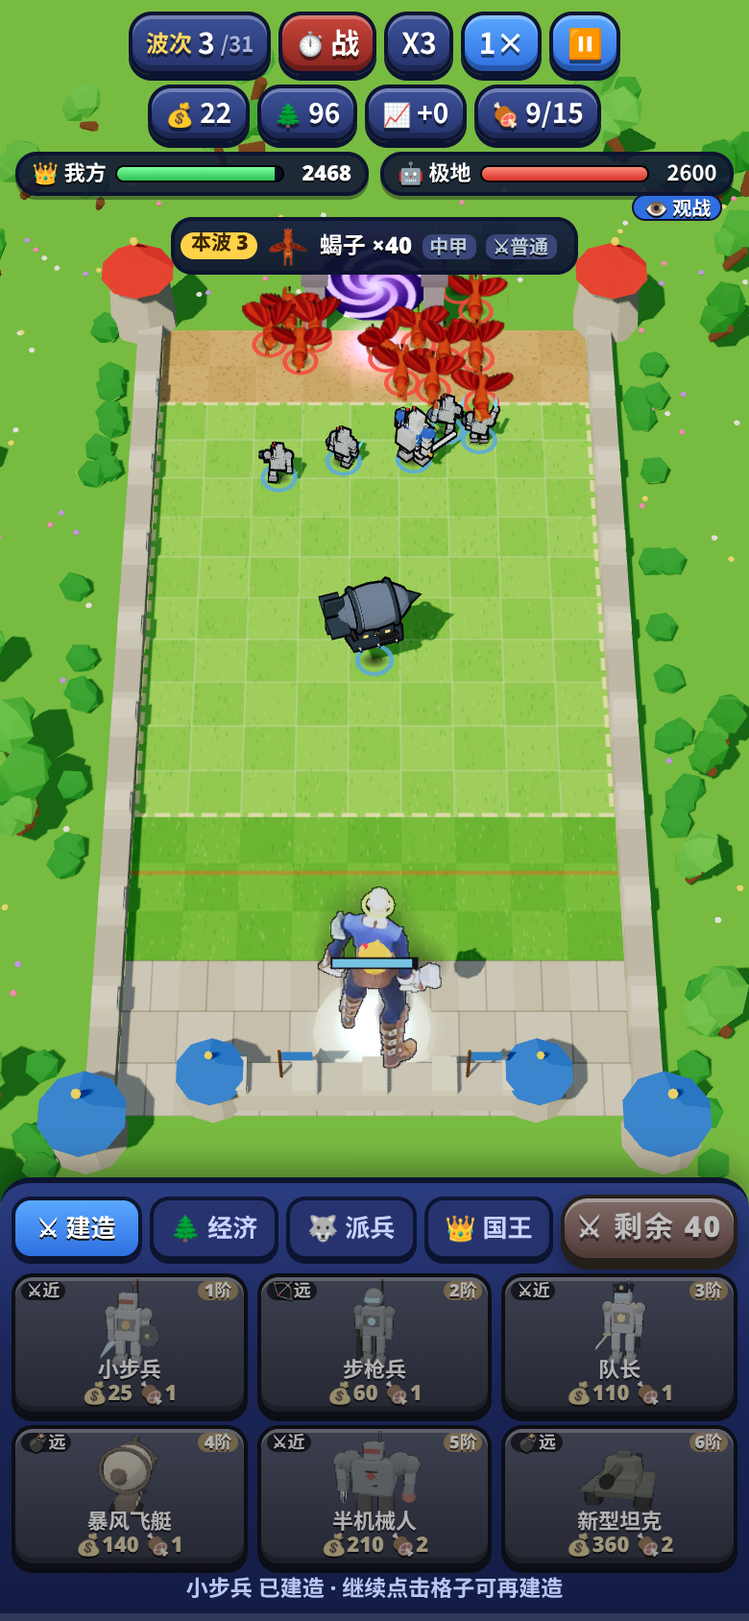
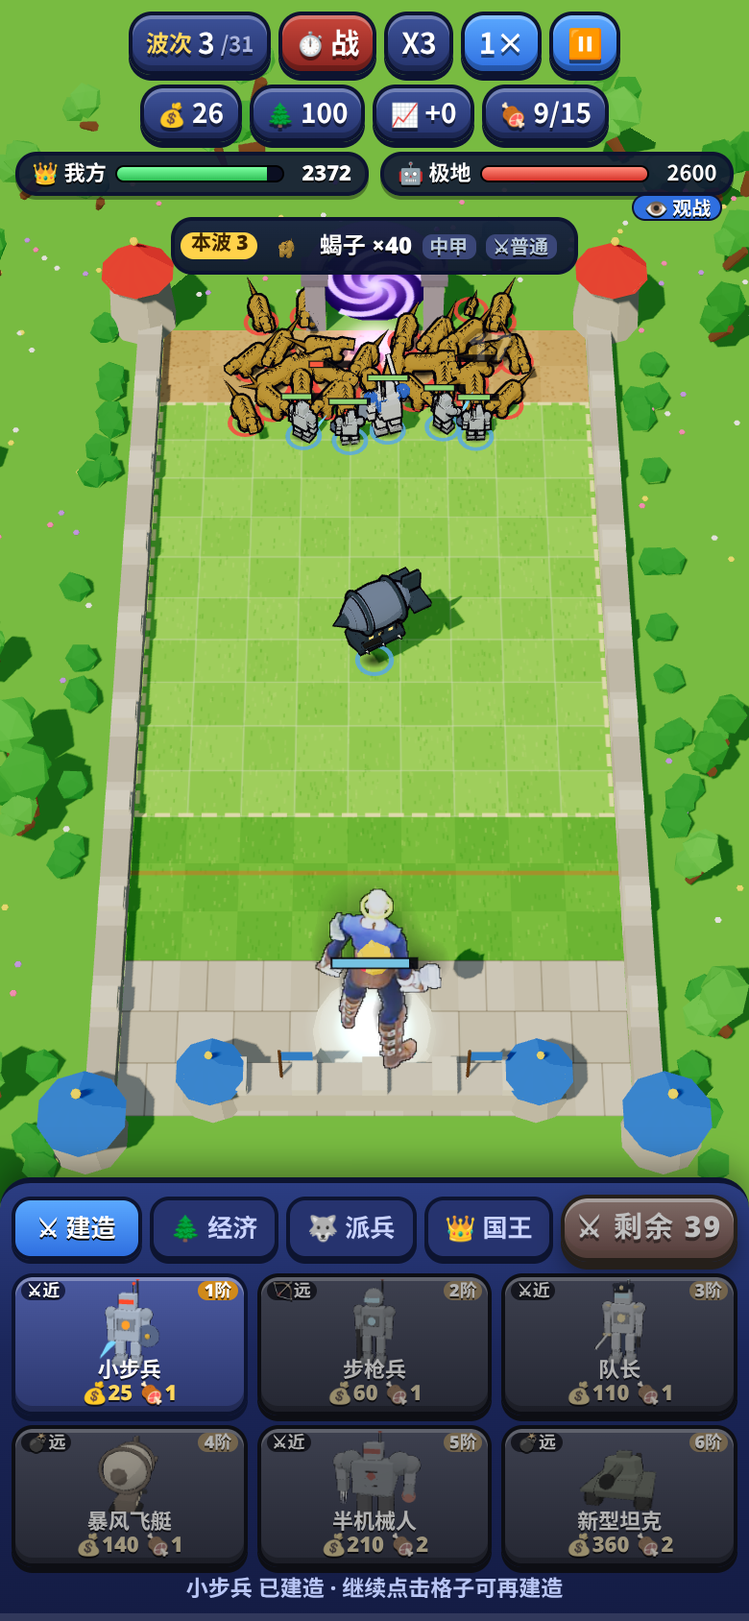
Model remake: wave creeps, skill summons and mercenaries on ToonKit; audit covers mercs; fewer shadow casters; perf_battle test

diff --git a/toonrecipes.js b/toonrecipes.js
@@ -173,3 +173,50 @@ R('h0CW',{k:0.98,h:1.0,torso:'default',head:'default',skin:0x8aa86a,hair:0x3a3a2
 R('h0CY',{k:1.12,h:1.15,bw:1.6,torso:'brute',head:'default',headS:0.85,skin:0xb8c8a8,torsoC:0xb8c8a8,legC:0x8a9a7a,sleeve:0xb8c8a8,handC:0x9aa88a,bootC:0x5a5a4a,eye:0xffe04a,weapon:'axe',wMetal:0x9a9aa0,off:'chain',atk:'swing',extras:['stitches','belly:0xc8d8b8','chains','spikes:0x6a6a6a']});
 R('h0D0',{k:1.12,h:1.18,bw:1.5,legs:'none',floatY:0.38,torso:'brute',head:'beast',headC:0x8a4a2a,helm:'horns',hornC:0x2a1a1a,skin:0x9a5a3a,torsoC:0x8a4a2a,lowC:0x6a3a2a,lowM:'n',sleeve:0x9a5a3a,handC:0x7a3a1a,eye:0x8aff4a,weapon:'trident',wMetal:0x5a5a5a,glow:0x8aff4a,pads:true,padC:0x2a2a2a,spikes:true,atk:'thrust',extras:['bwings:0x4a1a1a','tail:0x6a3a2a','aura:0x8aff4a']});
 R('h0D2',{k:1.12,plan:'flyer',skin:0xc8e0f0,skin2:0x8ab8d8,wingC:0x9ac8e8,wingM:'w',eye:0x6affff,crest:0xe8f8ff,neckLen:0.8,tailLen:0.6,wingSpan:1.15,alt:0.4,atk:'bite',extras:['spikes:0xe8f8ff','rings:0x9af0ff'],trail:0x9af0ff});
+// ===================== 召唤物 / 雇佣兵 / 波次怪：多数复用同类兵种配方（A=复制+覆盖），其余单独设计 =====================
+const A=(id,src,o)=>{TKR[id]={...TKR[src],...(o||{})};};
+// --- 召唤物 Summons ---
+R('n001',{k:0.8,plan:'quad',skin:0x3a5a2a,skin2:0x6a8a3a,headType:'wolf',eye:0x8aff4a,legLen:0.28,bodyLen:0.55,tailLen:0.3,claws:true,spikes:true,spikeC:0x8aff4a,atk:'bite'});
+A('n002','n001',{k:0.92,skin:0x5a3a7a,skin2:0x8a5ab0,eye:0xd06aff,spikeC:0xd06aff});
+A('u005','h0CS',{k:1.05,torsoC:0x6a1a1a,lowC:0x4a0a0a,eye:0xff4a2a,glow:0xff6a2a,accent:0xff6a2a,extras:['cape:0x4a0a0a','orbit:0xff6a2a','aura:0xff4a2a']});
+R('n00Q',{k:0.82,plan:'quad',skin:0x8a7a6a,skin2:0xb0a090,headType:'wolf',eye:0xffd02a,legLen:0.28,bodyLen:0.56,tailLen:0.32,tailW:1.4,claws:true,atk:'bite'});
+A('n00R','n00Q',{k:0.92,ghost:true,skin:0xc83a3a,skin2:0xff8a8a,eye:0xffe0a0,mane:true,maneC:0x8a1a1a});
+A('u011','h01R',{k:0.88});
+R('n004',{k:0.72,plan:'quad',skin:0x6a3a8a,skin2:0xb08ad8,headType:'lizard',eye:0xffe04a,legLen:0.22,bodyLen:0.45,tailLen:0.3,claws:true,spikes:true,spikeC:0xd8b0ff,atk:'bite'});
+A('h0AD','h0AE',{k:0.8});
+// --- 雇佣兵 Mercenaries ---
+A('h04O','h09H',{k:0.88});A('h04P','h09W',{k:0.88});A('h04R','h0CI',{k:0.9});A('h04S','h0BF',{k:0.95});
+R('h04Q',{k:0.72,plan:'flyer',skin:0x4a9a3a,skin2:0xd8e0a0,wingC:0x2a6a2a,eye:0xffe04a,neckLen:0.5,headS:1.2,tailLen:0.35,wingSpan:0.85,alt:0.4,atk:'bite'});
+A('h04T','h06O',{k:0.95});
+R('h04U',{k:0.95,plan:'quad',skin:0x4a8a8a,skin2:0xc8d8a0,headType:'lizard',eye:0xffe04a,legLen:0.3,bodyLen:0.7,bodyH:0.3,bw:1.15,tailLen:0.55,tailW:1.6,hump:true,spikes:true,spikeC:0x2a5a8a,claws:true,atk:'bite'});
+R('h04V',{k:1.15,plan:'quad',skin:0x8a7a6a,skin2:0xb0a088,headType:'boar',eye:0xffd02a,legLen:0.32,bodyLen:0.75,bodyH:0.38,bw:1.35,horns:true,hump:true,tailLen:0.12,saddle:0x8a2a2a,rider:0x6a4a2a,riderSkin:0x6a9a3a,riderHelm:0x8a8a8a,atk:'slam'});
+R('h04W',{k:1.0,h:1.0,bw:1.3,torso:'brute',head:'beast',headC:0x8a6a4a,skin:0x8a6a4a,torsoC:0x7a5a3a,legC:0x6a4a2a,sleeve:0x8a6a4a,handC:0x6a4a2a,bootC:0x4a3020,eye:0xffd02a,weapon:'hammer',wood:0x6a4a2a,wMetal:0x6a4a2a,atk:'slam',extras:['belly:0xb09070','bones']});
+A('h04X','h0C8',{k:1.0});A('h04Z','h0BS',{k:1.05});A('h050','h0BE',{k:0.95});A('h051','h0BH',{k:1.0});A('h052','h0BV',{k:1.0});A('h053','h0BG',{k:1.0});A('h056','h06P',{k:1.05});A('h057','h0CY',{k:1.15});
+R('h05M',{k:0.95,plan:'flyer',skin:0x7a7a84,skin2:0x9a9aa4,wingC:0x5a5a64,eye:0xff4a2a,neckLen:0.35,headS:1.2,tailLen:0.45,wingSpan:1.0,alt:0.45,atk:'claw',extras:['spikes:0x4a4a54']});
+A('h059','h07W',{k:1.05});
+R('h05B',{k:1.1,plan:'orb',glow:0x8a6aff,spikes:true,atk:'pulse',extras:['rings:0xb08aff']});
+A('h05A','h047',{k:1.15,torsoC:0x3a4a3a,legC:0x2a3a2a,armC:0x3a4a3a,headC:0x3a4a3a,eye:0x8aff4a,glow:0x8aff4a,extras:['chest:0x8aff4a','flamebody']});
+A('n003','h05A',{k:1.0});
+A('h0BR','h08Q',{k:1.2});
+// --- 波次怪 Wave creeps ---
+A('h000','h07L',{k:0.85});
+R('h005',{k:0.85,plan:'quad',skin:0xb08a3a,skin2:0xd8b060,headType:'lizard',eye:0x2a2a2a,legLen:0.18,bodyLen:0.6,bodyH:0.22,bw:1.3,tailLen:0.5,tailW:1.3,tailC:0x8a6a2a,claws:true,spikes:true,spikeC:0x6a4a1a,atk:'bite'});
+R('h001',{k:0.8,plan:'quad',skin:0x7a5a3a,skin2:0xa08060,headType:'boar',eye:0x2a2a2a,legLen:0.22,bodyLen:0.55,bodyH:0.3,bw:1.2,hump:true,spikes:true,spikeC:0xf0e8d8,tusks:true,tailLen:0.1,atk:'shoot'});
+R('h00I',{k:0.8,plan:'flyer',headType:'bird',skin:0x7a5a3a,skin2:0xe8e0d0,headC:0xf0f0f0,wing:'bird',wingC:0x6a4a2a,beak:0xf0c040,eye:0x2a2a2a,neckLen:0.35,headS:1.2,tailLen:0.25,wingSpan:1.0,alt:0.5,atk:'dive'});
+A('h003','h046',{k:0.92,torsoC:0x8a8a8a,legC:0x6a6a6a,armC:0x7a7a7a,headC:0x7a7a7a,eye:0xffd04a,glow:0xffd04a});
+R('h004',{k:0.98,h:1.0,torso:'default',head:'beast',headC:0x8a5a3a,helm:'horns',hornC:0x2a1a1a,skin:0x9a7ad8,torsoC:0x5a3a7a,legC:0x6a4a3a,legs:'hoof',eye:0xd06aff,weapon:'staff',wood:0x3a2a1a,glow:0xb06aff,atk:'cast',extras:['tail:0x6a4a3a','orbit:0xb06aff']});
+A('h007','h0CF');A('h008','h0CW');
+R('H05I',{k:1.3,h:1.2,bw:1.4,torso:'brute',head:'beast',headC:0x6a7ab8,helm:'crown',accent:0xffd04a,skin:0x6a7ab8,torsoC:0x4a3a7a,legC:0x3a2a5a,sleeve:0x6a7ab8,handC:0x5a6aa8,legs:'hoof',eye:0x8affff,weapon:'staff',wood:0xd8b860,glow:0xb08aff,pads:true,padC:0xd8b860,atk:'cast',extras:['tentacles:0x5a6aa8','tail:0x6a7ab8','aura:0xb08aff','orbit:0xb08aff']});
+A('h00B','h07S',{k:0.95});A('h00C','h07P',{k:1.0});A('h00D','h0BC',{k:1.05});
+R('h00E',{k:1.05,plan:'quad',skin:0x8a5a3a,skin2:0xa8785a,headType:'horse',eye:0x2a2a2a,legLen:0.36,bodyLen:0.64,tailLen:0.32,tailC:0x3a2a1a,mane:true,maneC:0x3a2a1a,rider:0xb8885a,riderSkin:0xc8986a,lance:0x8a8a8a,atk:'thrust'});
+R('h00F',{k:0.95,plan:'quad',skin:0xc8402a,skin2:0xf0a04a,headType:'lizard',eye:0xffe04a,legLen:0.24,bodyLen:0.68,bodyH:0.26,bw:1.15,tailLen:0.55,tailW:1.5,tailC:0xff7a2a,spikes:true,spikeC:0xffd04a,claws:true,atk:'shoot'});
+R('h00G',{k:1.1,h:1.1,bw:1.5,torso:'brute',head:'default',headS:0.8,skin:0xd8a0a0,torsoC:0xc89090,legC:0xa87070,sleeve:0xc89090,handC:0xa87070,bootC:0x5a3a3a,eye:0xffe04a,weapon:'glowfist',off:'glowfist',glow:0xff6a6a,atk:'slam',extras:['stitches','chains','bones']});
+R('h00H',{k:1.0,h:1.0,bw:1.4,torso:'rock',head:'rock',headC:0x5a8a3a,eye:0xffe04a,legs:'human',arms:'rock',torsoC:0x6a9a3a,legC:0x4a7a2a,armC:0x5a8a3a,bootC:0x3a5a2a,glow:0xb0ff4a,atk:'cast',extras:['chest:0xb0ff4a']});
+A('H05J','h07U',{k:1.4,skin:0x3a7a6a,skin2:0xd8c88a,headType:'lizard',hump:true,bodyH:0.32,spikeC:0xe8e0c8,eye:0xff4a2a});
+A('h03P','h08F',{k:0.9});
+R('h03Q',{k:1.15,plan:'quad',skin:0x6a4a2a,skin2:0x8a6a4a,headType:'boar',eye:0x2a2a2a,legLen:0.36,bodyLen:0.75,bodyH:0.38,bw:1.35,tusks:true,hump:true,mane:true,maneC:0x4a3020,tailLen:0.12,atk:'slam'});
+R('h03R',{k:1.1,h:1.05,bw:1.4,torso:'brute',head:'bird',headC:0x8a6a4a,skin:0x7a5a3a,torsoC:0x7a5a3a,legC:0x5a3a20,sleeve:0x7a5a3a,handC:0x5a3a20,legs:'digit',arms:'claw',eye:0xffd02a,helm:'horns',hornC:0xe8dcc0,atk:'claw',extras:['belly:0xc8a878','mane:0x6a4a2a']});
+A('h03T','h0CH',{k:1.05});A('h03U','h06Q',{k:1.0});A('h03S','h07V',{k:1.05});A('h03V','h022',{k:1.05});
+R('h03W',{k:0.95,plan:'tank',skin:0x3a4a3a,skin2:0x1a2a1a,barrels:1,spikes:true,eye:0x8aff4a,barrelC:0x2a3a2a,exhaust:true,atk:'recoil'});
+A('h006','h0D2',{k:1.0});A('H05K','h0BK',{k:1.4});
+A('h05L','h0D0',{k:1.35,skin:0x6a8a3a,torsoC:0x4a6a2a,lowC:0x3a5a2a,headC:0x5a7a2a,sleeve:0x6a8a3a,handC:0x4a6a2a,eye:0xff4a2a,glow:0xff4a2a,extras:['bwings:0x2a3a1a','tail:0x3a5a2a','aura:0x8aff4a','flamebody']});

diff --git a/test/perf_battle.js b/test/perf_battle.js
@@ -1,0 +1,13 @@
+// 战斗性能采样：PORT=8765 WAVE=1 node test/perf_battle.js → 可见网格数(≈draw calls)、三角形、单位数、fps(无GPU仅作相对比较)
+const {chromium}=require('/workspace/weapon-brawl-test/node_modules/playwright-core');
+const PORT=process.env.PORT||8765,WAVE=+process.env.WAVE||1;
+(async()=>{const b=await chromium.launch({executablePath:'/usr/bin/google-chrome',args:['--use-angle=swiftshader','--enable-unsafe-swiftshader','--ignore-gpu-blocklist']});
+ const p=await b.newPage({viewport:{width:390,height:844}});const errs=[];p.on('pageerror',e=>errs.push(e.message));
+ await p.goto(`http://127.0.0.1:${PORT}/index.html?debug&seed=11&mode=X3`);await p.waitForFunction(()=>window.__lt&&__lt.ready,null,{timeout:30000});
+ await p.tap('.rpick[data-r="Mech"]',{force:true}).catch(()=>p.click('.rpick[data-r="Mech"]',{force:true}));await p.waitForTimeout(500);await p.click('#startBtn',{force:true});await p.waitForTimeout(1000);
+ await p.evaluate(()=>{__lt.G.g.autoP0=true;});await p.click('#goBtn',{force:true});
+ for(let i=0;i<600;i++){const s=await p.evaluate(()=>[__lt.G.g.wave,__lt.G.g.phase]);if(s[0]>=WAVE&&s[1]==='battle')break;await p.evaluate(()=>{__lt.G.speed=4;const g=__lt.G.g;if(g.phase==='build'&&g.timer>8)g.timer=8;});await p.waitForTimeout(300);}
+ await p.evaluate(()=>{__lt.G.speed=1;});await p.waitForTimeout(2500);
+ const r=await p.evaluate(()=>new Promise(res=>{let f=0,mx=0,tri=0,un=0;const t0=performance.now();const step=()=>{f++;if(f%10===0){let m=0,t=0;__lt.scene.traverseVisible(o=>{if(o.isMesh||o.isSprite||o.isPoints){m++;const g=o.geometry;if(g&&o.isMesh)t+=(g.index?g.index.count:g.attributes.position.count)/3;}});if(m>mx){mx=m;tri=t;un=__lt.G.g.lanes.reduce((a,L)=>a+L.units.length,0);}}
+   if(performance.now()-t0<5000)requestAnimationFrame(step);else res({maxMeshes:mx,tris:Math.round(tri),units:un,fps:+(f/5).toFixed(1),heapMB:performance.memory?Math.round(performance.memory.usedJSHeapSize/1e6):null});};requestAnimationFrame(step);}));
+ console.log(JSON.stringify({wave:WAVE,...r,errs:errs.length}));await b.close();})();

diff --git a/toonkit.js b/toonkit.js
@@ -48,10 +48,12 @@ function compile(tb,ghost){const out=[];for(const name of tb.order){const P=tb.p
     else if(ghost&&geos.g){let g=geos.g.clone();g.deleteAttribute('normal');g.deleteAttribute('color');g=mergeVertices(g,1e-3);g.computeVertexNormals();ol=g;}
     out.push({name,parent:P.parent,pivot:P.pivot,geos,ol});}
   return {parts:out,meta:tb.meta};}
+// 只让主体部件投影：手臂/腿/武器等小部件不进阴影 pass，减少手机上的 draw call
+const SHADOW_PARTS=new Set(['root','body','hips','torso','head','wingL','wingR','tread','turret']);
 export function buildTK(id,recipe){let T=TPL.get(id);if(!T){const tb=new TB();const plan=PLANS[recipe.plan]||PLANS.humanoid;plan(tb,recipe);T=compile(tb,!!recipe.ghost);T.meta=Object.assign({atk:recipe.atk||'swing',plan:recipe.plan||'humanoid',ghost:!!recipe.ghost},tb.meta);TPL.set(id,T);}
   const nodes={};const root=new THREE.Group();
   for(const P of T.parts){const g=P.name==='root'?root:new THREE.Group();g.position.set(...P.pivot);nodes[P.name]=g;
-    for(const m in P.geos){const me=new THREE.Mesh(P.geos[m],mat(m));me.castShadow=(m==='n'||m==='w');me.renderOrder=m==='g'||m==='ge'?4:0;g.add(me);}
+    for(const m in P.geos){const me=new THREE.Mesh(P.geos[m],mat(m));me.castShadow=(m==='n'||m==='w')&&SHADOW_PARTS.has(P.name);me.renderOrder=m==='g'||m==='ge'?4:0;g.add(me);}
     if(P.ol){const o=new THREE.Mesh(P.ol,mat(recipe.ghost?'og':'o'));o.renderOrder=recipe.ghost?3:0;g.add(o);}
     if(P.parent)nodes[P.parent].add(g);}
   for(const P of T.parts)nodes[P.name].userData.rest=nodes[P.name].rotation.clone();

diff --git a/index.html b/index.html
@@ -10,9 +10,9 @@
 <link rel="manifest" href="manifest.webmanifest">
 <link rel="icon" type="image/png" href="icons/favicon-32.png">
 <link rel="apple-touch-icon" href="icons/apple-touch-icon.png">
-<link rel="stylesheet" href="style.css?v=15">
-<link rel="stylesheet" href="td.css?v=15">
-<link rel="stylesheet" href="lt.css?v=15">
+<link rel="stylesheet" href="style.css?v=16">
+<link rel="stylesheet" href="td.css?v=16">
+<link rel="stylesheet" href="lt.css?v=16">
 </head>
 <body class="td lt">
 <canvas id="cv"></canvas>
@@ -75,8 +75,8 @@
 </div>
 <div id="showTitle" class="hidden"></div>
 <script src="audio.js?v=1"></script>
-<script src="lt_core.js?v=15"></script>
+<script src="lt_core.js?v=16"></script>
 <script type="importmap">{"imports":{"three":"./lib/three.module.min.js","three/addons/":"./lib/addons/"}}</script>
-<script type="module" src="lt.js?v=15"></script>
+<script type="module" src="lt.js?v=16"></script>
 </body>
 </html>

diff --git a/lt.js b/lt.js
@@ -3,8 +3,8 @@ import * as THREE from 'three';
 import {SPR_UNITS,SPR_K,SPR_V} from './sprdata.js';
 import {MODELS,modelOf} from './models.js';
 import {ABZ as ABZ_} from './abil_zh.js';
-import {initTK,buildTK,animTK} from './toonkit.js?v=15';
-import {TKR} from './toonrecipes.js?v=15';
+import {initTK,buildTK,animTK} from './toonkit.js?v=16';
+import {TKR} from './toonrecipes.js?v=16';
 const LT=window.LT,S=SFX.S,$=id=>document.getElementById(id);
 const Q=location.search;const DEBUG=/[?&]debug/.test(Q);const SHOWCASE=(Q.match(/[?&]showcase=([^&]+)/)||[])[1];
 const W=LT.W,H=LT.H,W2=W/2,H2=H/2;const B=LT.BUILD;

diff --git a/data/model_audit.md b/data/model_audit.md
@@ -1,6 +1,6 @@
 # 模型审核 · Model audit (Legion TD Mega 3.41)
 
-生成：`node tools/gen_audit.mjs`。共 187 个建造兵种 + 11 个召唤物 + 31 波怪。
+生成：`node tools/gen_audit.mjs`。共 187 个建造兵种 + 11 个技能召唤物 + 24 个雇佣兵（派兵）+ 31 波怪。
 
 “旧资源”= models.js 中复用的英雄冲突 HoMM3 精灵（着色）或旧程序化模型；“WC3 模型”= 原图模型文件。严重度：❌ 轮廓/物种完全不对；⚠ 物种接近但关键特征缺失（坐骑、翅膀、多头、幽灵感等）；✅ 基本相符。
 
@@ -171,12 +171,12 @@
 | h01Q | Skeletor 骷髅勇士 | SkeletonOrc | 精灵 skeleton | ✅ 基本相符 | **已重做**：ToonKit 程序化卡通模型（humanoid） |
 | h01R | Fire Archer 火焰弓箭手 | SkeletonArcher | 精灵 skeleton | ✅ 基本相符 | **已重做**：ToonKit 程序化卡通模型（humanoid） |
 | h01S | Dark Mage 骷髅黑法师 | SkeletonMage | 精灵 lich | ⚠ 部分不符 | **已重做**：ToonKit 程序化卡通模型（humanoid） |
-| h01T | Carrion Spitter 腐尸吐吐虫 | CryptFiend | 程序化 spider | ✅ 基本相符 | 保留，后续统一换 ToonKit 时顺带做 |
-| h01U | Nightcrawler 夜行蛛 | NerubianSpiderLord | 程序化 spider | ✅ 基本相符 | 保留，后续统一换 ToonKit 时顺带做 |
+| h01T | Carrion Spitter 腐尸吐吐虫 | CryptFiend | 程序化 spider | ✅ 基本相符 | 保留：旧资源已与 WC3 模型相符（程序化 spider） |
+| h01U | Nightcrawler 夜行蛛 | NerubianSpiderLord | 程序化 spider | ✅ 基本相符 | 保留：旧资源已与 WC3 模型相符（程序化 spider） |
 | h01V | Gateguard 守门恶魔 | Felgaurd | 精灵 pitFiend | ✅ 基本相符 | **已重做**：ToonKit 程序化卡通模型（humanoid） |
 | h01W | Harbinger 先驱者 | FelgaurdBlue | 精灵 pitFiend | ✅ 基本相符 | **已重做**：ToonKit 程序化卡通模型（humanoid） |
-| h01X | Overseer 监视者 | ObsidianStatue | 程序化 statue | ✅ 基本相符 | 保留，后续统一换 ToonKit 时顺带做 |
-| h01Y | Keeper of Souls 灵魂守护者 | ObsidianStatue | 程序化 statue | ✅ 基本相符 | 保留，后续统一换 ToonKit 时顺带做 |
+| h01X | Overseer 监视者 | ObsidianStatue | 程序化 statue | ✅ 基本相符 | 保留：旧资源已与 WC3 模型相符（程序化 statue） |
+| h01Y | Keeper of Souls 灵魂守护者 | ObsidianStatue | 程序化 statue | ✅ 基本相符 | 保留：旧资源已与 WC3 模型相符（程序化 statue） |
 | h01Z | Nightmare 梦魇 | FacelessOne | 精灵 beholder | ❌ 严重不符 | **已重做**：ToonKit 程序化卡通模型（humanoid） |
 | h020 | Doppelganger 幻影分身 | FacelessOne | 精灵 beholder | ❌ 严重不符 | **已重做**：ToonKit 程序化卡通模型（humanoid） |
 | h021 | Lord of Death 死亡领主 | EredarWarlock | 精灵 efreet | ⚠ 部分不符 | **已重做**：ToonKit 程序化卡通模型（humanoid） |
@@ -190,16 +190,16 @@
 | h07L | Swamprunner 沼泽奔行者 | MurlocMutant | 精灵 lizardman | ⚠ 部分不符 | **已重做**：ToonKit 程序化卡通模型（humanoid） |
 | h07N | Fangtooth 尖牙鱼人 | MurgulReaver | 精灵 lizardman | ⚠ 部分不符 | **已重做**：ToonKit 程序化卡通模型（humanoid） |
 | h07M | Defiler 毒牙鱼人 | MurgulBloodGill | 精灵 lizardman | ⚠ 部分不符 | **已重做**：ToonKit 程序化卡通模型（humanoid） |
-| h07O | Egg Sack 蛋壳 | EggSack1 | 程序化 egg | ✅ 基本相符 | 保留，后续统一换 ToonKit 时顺带做 |
+| h07O | Egg Sack 蛋壳 | EggSack1 | 程序化 egg | ✅ 基本相符 | 保留：旧资源已与 WC3 模型相符（程序化 egg） |
 | h07P | Sky Dragon 飞蛇 | WindSerpent | 精灵 serpentFly | ✅ 基本相符 | **已重做**：ToonKit 程序化卡通模型（flyer） |
-| h07Q | Bottom Feeder 鳌虾 | Lobstrokkred | 程序化 crab | ✅ 基本相符 | 保留，后续统一换 ToonKit 时顺带做 |
-| h07R | King Claw 蟹王 | Lobstrokkgreen | 程序化 crab | ✅ 基本相符 | 保留，后续统一换 ToonKit 时顺带做 |
+| h07Q | Bottom Feeder 鳌虾 | Lobstrokkred | 程序化 crab | ✅ 基本相符 | 保留：旧资源已与 WC3 模型相符（程序化 crab） |
+| h07R | King Claw 蟹王 | Lobstrokkgreen | 程序化 crab | ✅ 基本相符 | 保留：旧资源已与 WC3 模型相符（程序化 crab） |
 | h07S | Mermaid 美人鱼 | NagaSiren | 精灵 naga | ✅ 基本相符 | **已重做**：ToonKit 程序化卡通模型（humanoid） |
 | h07T | Highborne 上层精灵 | NagaSummoner | 精灵 naga | ✅ 基本相符 | **已重做**：ToonKit 程序化卡通模型（humanoid） |
 | h07U | Komodo 巨蜥 | SnapDragon | 精灵 basilisk | ⚠ 部分不符 | **已重做**：ToonKit 程序化卡通模型（quad） |
 | h07V | Trident 三叉戟 | NagaMyrmidon | 精灵 naga | ✅ 基本相符 | **已重做**：ToonKit 程序化卡通模型（humanoid） |
 | h07W | Sea Giant 海巨人 | SeaGiantGreen | 精灵 giant | ⚠ 部分不符 | **已重做**：ToonKit 程序化卡通模型（humanoid） |
-| h07X | Hydra 九头蛇 | Hydra | 精灵 hydra | ✅ 基本相符 | 保留，后续统一换 ToonKit 时顺带做 |
+| h07X | Hydra 九头蛇 | Hydra | 精灵 hydra | ✅ 基本相符 | 保留：旧资源已与 WC3 模型相符（精灵 hydra） |
 
 ## Beast 野兽
 
@@ -222,19 +222,19 @@
 
 | id | 兵种 | WC3 模型 | 旧资源 | 旧资源符合度 | 处理 |
 |---|---|---|---|---|---|
-| h01C | Ent 树人 | Ent | 程序化 tree | ✅ 基本相符 | 保留，后续统一换 ToonKit 时顺带做 |
-| h01D | Guardian 守护古树 | AncientProtector | 程序化 ancient | ✅ 基本相符 | 保留，后续统一换 ToonKit 时顺带做 |
+| h01C | Ent 树人 | Ent | 程序化 tree | ✅ 基本相符 | 保留：旧资源已与 WC3 模型相符（程序化 tree） |
+| h01D | Guardian 守护古树 | AncientProtector | 程序化 ancient | ✅ 基本相符 | 保留：旧资源已与 WC3 模型相符（程序化 ancient） |
 | h01E | Ranger 游侠 | Archer | 精灵 woodElf | ✅ 基本相符 | **已重做**：ToonKit 程序化卡通模型（humanoid） |
 | h01F | Meliai 树精 | Dryad | 精灵 woodElf | ⚠ 部分不符 | **已重做**：ToonKit 程序化卡通模型（humanoid） |
 | h01H | Sprite 精灵龙 | FaerieDragon | 精灵 serpentFly | ⚠ 部分不符 | **已重做**：ToonKit 程序化卡通模型（flyer） |
 | h01G | Thunderbird 雷鸟 | Chimaera | 精灵 griffin | ❌ 严重不符 | **已重做**：ToonKit 程序化卡通模型（flyer） |
-| h01I | Tree of Travel 旅行之树 | AncientOfLore | 程序化 ancient | ✅ 基本相符 | 保留，后续统一换 ToonKit 时顺带做 |
-| h01J | Tree of Time 时间之树 | AncientOfWonder | 程序化 ancient | ✅ 基本相符 | 保留，后续统一换 ToonKit 时顺带做 |
+| h01I | Tree of Travel 旅行之树 | AncientOfLore | 程序化 ancient | ✅ 基本相符 | 保留：旧资源已与 WC3 模型相符（程序化 ancient） |
+| h01J | Tree of Time 时间之树 | AncientOfWonder | 程序化 ancient | ✅ 基本相符 | 保留：旧资源已与 WC3 模型相符（程序化 ancient） |
 | h01K | Halfbreed 混血熊人 | DruidoftheClaw | 精灵 behemoth | ✅ 基本相符 | **已重做**：ToonKit 程序化卡通模型（quad） |
 | h01L | Goliath 山岭巨人 | MountainGiant | 精灵 giant | ✅ 基本相符 | **已重做**：ToonKit 程序化卡通模型（humanoid） |
-| h01M | Yggdrasil 世界树 | TreeofLife | 程序化 tree | ✅ 基本相符 | 保留，后续统一换 ToonKit 时顺带做 |
-| h01N | Tree of Life 生命之树 | TreeofLife | 程序化 tree | ✅ 基本相符 | 保留，后续统一换 ToonKit 时顺带做 |
-| h01O | Tree of Knowledge 智慧之树 | CorruptedTreeofLife | 程序化 tree | ✅ 基本相符 | 保留，后续统一换 ToonKit 时顺带做 |
+| h01M | Yggdrasil 世界树 | TreeofLife | 程序化 tree | ✅ 基本相符 | 保留：旧资源已与 WC3 模型相符（程序化 tree） |
+| h01N | Tree of Life 生命之树 | TreeofLife | 程序化 tree | ✅ 基本相符 | 保留：旧资源已与 WC3 模型相符（程序化 tree） |
+| h01O | Tree of Knowledge 智慧之树 | CorruptedTreeofLife | 程序化 tree | ✅ 基本相符 | 保留：旧资源已与 WC3 模型相符（程序化 tree） |
 
 ## Undead 亡灵
 
@@ -244,8 +244,8 @@
 | h0CH | Revenant 亡魂 | RevenantOfTheWaves | 精灵 wight | ⚠ 部分不符 | **已重做**：ToonKit 程序化卡通模型（humanoid） |
 | h0CI | Ghoul 食尸鬼 | Ghoul | 精灵 walkingDead | ✅ 基本相符 | **已重做**：ToonKit 程序化卡通模型（humanoid） |
 | h0CK | Frenzy Ghoul 狂暴食尸鬼 | Ghoul | 精灵 walkingDead | ✅ 基本相符 | **已重做**：ToonKit 程序化卡通模型（humanoid） |
-| h0CO | Meat Wagon 绞肉车 | MeatWagon | 程序化 wagon | ✅ 基本相符 | 保留，后续统一换 ToonKit 时顺带做 |
-| h0CP | War Machine 战争机器 | InfernalCannonCannon | 程序化 wagon | ✅ 基本相符 | 保留，后续统一换 ToonKit 时顺带做 |
+| h0CO | Meat Wagon 绞肉车 | MeatWagon | 程序化 wagon | ✅ 基本相符 | 保留：旧资源已与 WC3 模型相符（程序化 wagon） |
+| h0CP | War Machine 战争机器 | InfernalCannonCannon | 程序化 wagon | ✅ 基本相符 | 保留：旧资源已与 WC3 模型相符（程序化 wagon） |
 | h0CQ | Necromancer 死灵法师 | Necromancer | 精灵 lich | ✅ 基本相符 | **已重做**：ToonKit 程序化卡通模型（humanoid） |
 | h0CS | Necrolyte 克尔苏加德 | Kelthuzad | 精灵 lich | ✅ 基本相符 | **已重做**：ToonKit 程序化卡通模型（humanoid） |
 | h0CV | Ghost 幽灵巫妖 | KelThuzadGhost | 精灵 lich | ⚠ 部分不符 | **已重做**：ToonKit 程序化卡通模型（humanoid） |
@@ -275,79 +275,108 @@
 
 | id | 兵种 | WC3 模型 | 旧资源 | 旧资源符合度 | 处理 |
 |---|---|---|---|---|---|
-| h0A8 | Small Land Mine 小型地雷 | GoblinLandMine | 程序化 mine | ✅ 基本相符 | 保留，后续统一换 ToonKit 时顺带做 |
-| h0AT | Medium Land Mine 中型地雷 | GoblinLandMine | 程序化 mine | ✅ 基本相符 | 保留，后续统一换 ToonKit 时顺带做 |
-| h0AU | Ultra Land Mine 超级地雷 | GoblinLandMine | 程序化 mine | ✅ 基本相符 | 保留，后续统一换 ToonKit 时顺带做 |
-| h0AB | Machine Turret 机枪塔 | GoblinMobileTurret | 程序化 turret | ✅ 基本相符 | 保留，后续统一换 ToonKit 时顺带做 |
-| h0AA | Machine Robot 机器人 | GoblinDrillbot3000_A_005 | 程序化 robot | ✅ 基本相符 | 保留，后续统一换 ToonKit 时顺带做 |
+| h0A8 | Small Land Mine 小型地雷 | GoblinLandMine | 程序化 mine | ✅ 基本相符 | 保留：旧资源已与 WC3 模型相符（程序化 mine） |
+| h0AT | Medium Land Mine 中型地雷 | GoblinLandMine | 程序化 mine | ✅ 基本相符 | 保留：旧资源已与 WC3 模型相符（程序化 mine） |
+| h0AU | Ultra Land Mine 超级地雷 | GoblinLandMine | 程序化 mine | ✅ 基本相符 | 保留：旧资源已与 WC3 模型相符（程序化 mine） |
+| h0AB | Machine Turret 机枪塔 | GoblinMobileTurret | 程序化 turret | ✅ 基本相符 | 保留：旧资源已与 WC3 模型相符（程序化 turret） |
+| h0AA | Machine Robot 机器人 | GoblinDrillbot3000_A_005 | 程序化 robot | ✅ 基本相符 | 保留：旧资源已与 WC3 模型相符（程序化 robot） |
 | h0AE | Geomancer 狗头人地卜师 | KoboldGeomancer | 精灵 gremlin | ⚠ 部分不符 | **已重做**：ToonKit 程序化卡通模型（humanoid） |
-| h0AF | Clockwreck 发条机器人 | HeroTinkerRobot | 程序化 robot | ✅ 基本相符 | 保留，后续统一换 ToonKit 时顺带做 |
-| h0AH | Flying Machine 飞行器 | Gyrocopter_V1 | 程序化 gyro | ✅ 基本相符 | 保留，后续统一换 ToonKit 时顺带做 |
-| h0AJ | Helicopter 直升机 | Minicopter | 程序化 copter | ✅ 基本相符 | 保留，后续统一换 ToonKit 时顺带做 |
+| h0AF | Clockwreck 发条机器人 | HeroTinkerRobot | 程序化 robot | ✅ 基本相符 | 保留：旧资源已与 WC3 模型相符（程序化 robot） |
+| h0AH | Flying Machine 飞行器 | Gyrocopter_V1 | 程序化 gyro | ✅ 基本相符 | 保留：旧资源已与 WC3 模型相符（程序化 gyro） |
+| h0AJ | Helicopter 直升机 | Minicopter | 程序化 copter | ✅ 基本相符 | 保留：旧资源已与 WC3 模型相符（程序化 copter） |
 | h0AL | Goblin Alchemist 地精炼金术士 | HeroGoblinAlchemist | 精灵 goblin | ⚠ 部分不符 | **已重做**：ToonKit 程序化卡通模型（humanoid） |
 | h0AO | Goblin Blaster 地精爆破手 | IronGolem | 精灵 stoneGolem | ✅ 基本相符 | **已重做**：ToonKit 程序化卡通模型（humanoid） |
-| h0AR | Steamroller 蒸汽压路机 | GoblinSteamRoller | 程序化 roller | ✅ 基本相符 | 保留，后续统一换 ToonKit 时顺带做 |
-| h0AQ | Assault Tank 突击坦克 | GoblinAssaultTank | 程序化 tank | ✅ 基本相符 | 保留，后续统一换 ToonKit 时顺带做 |
+| h0AR | Steamroller 蒸汽压路机 | GoblinSteamRoller | 程序化 roller | ✅ 基本相符 | 保留：旧资源已与 WC3 模型相符（程序化 roller） |
+| h0AQ | Assault Tank 突击坦克 | GoblinAssaultTank | 程序化 tank | ✅ 基本相符 | 保留：旧资源已与 WC3 模型相符（程序化 tank） |
 
 ## Hybrid 混血
 
 | id | 兵种 | WC3 模型 | 旧资源 | 旧资源符合度 | 处理 |
 |---|---|---|---|---|---|
-| h07D | Morph [Tier 1] 变形体·一阶 | QuestionMark | 程序化 morph | ✅ 基本相符 | 保留，后续统一换 ToonKit 时顺带做 |
-| h07E | Morph [Tier 2] 变形体·二阶 | QuestionMark | 程序化 morph | ✅ 基本相符 | 保留，后续统一换 ToonKit 时顺带做 |
-| h07G | Morph [Tier 3] 变形体·三阶 | QuestionMark | 程序化 morph | ✅ 基本相符 | 保留，后续统一换 ToonKit 时顺带做 |
-| h07F | Morph [Tier 4] 变形体·四阶 | QuestionMark | 程序化 morph | ✅ 基本相符 | 保留，后续统一换 ToonKit 时顺带做 |
-| h07H | Morph [Tier 5] 变形体·五阶 | QuestionMark | 程序化 morph | ✅ 基本相符 | 保留，后续统一换 ToonKit 时顺带做 |
-| h07I | Morph [Tier 6] 变形体·六阶 | QuestionMark | 程序化 morph | ✅ 基本相符 | 保留，后续统一换 ToonKit 时顺带做 |
+| h07D | Morph [Tier 1] 变形体·一阶 | QuestionMark | 程序化 morph | ✅ 基本相符 | 保留：旧资源已与 WC3 模型相符（程序化 morph） |
+| h07E | Morph [Tier 2] 变形体·二阶 | QuestionMark | 程序化 morph | ✅ 基本相符 | 保留：旧资源已与 WC3 模型相符（程序化 morph） |
+| h07G | Morph [Tier 3] 变形体·三阶 | QuestionMark | 程序化 morph | ✅ 基本相符 | 保留：旧资源已与 WC3 模型相符（程序化 morph） |
+| h07F | Morph [Tier 4] 变形体·四阶 | QuestionMark | 程序化 morph | ✅ 基本相符 | 保留：旧资源已与 WC3 模型相符（程序化 morph） |
+| h07H | Morph [Tier 5] 变形体·五阶 | QuestionMark | 程序化 morph | ✅ 基本相符 | 保留：旧资源已与 WC3 模型相符（程序化 morph） |
+| h07I | Morph [Tier 6] 变形体·六阶 | QuestionMark | 程序化 morph | ✅ 基本相符 | 保留：旧资源已与 WC3 模型相符（程序化 morph） |
 
 ## 召唤物 Summons
 
 | id | 兵种 | WC3 模型 | 旧资源 | 旧资源符合度 | 处理 |
 |---|---|---|---|---|---|
-| n001 | undefined 恶魔仆从 | felhound | 精灵 hellHound | ✅ 基本相符 | 保留，后续统一换 ToonKit 时顺带做 |
-| n002 | undefined 狂热者 | FelstalkerPurple | 精灵 hellHound | ✅ 基本相符 | 保留，后续统一换 ToonKit 时顺带做 |
-| n003 | undefined 地狱火 | Infernal | 精灵 stoneGolem | ⚠ 部分不符 | ToonKit 程序化重做（按 WC3 轮廓/配色） |
-| u005 | undefined 恶魔 | Kelthuzad | 精灵 lich | ✅ 基本相符 | 保留，后续统一换 ToonKit 时顺带做 |
-| n00Q | undefined 狼 | TimberWolf | 精灵 cerberus | ⚠ 部分不符 | ToonKit 程序化重做（按 WC3 轮廓/配色） |
-| n00R | undefined 血狼 | Spiritwolf | 精灵 cerberus | ⚠ 部分不符 | ToonKit 程序化重做（按 WC3 轮廓/配色） |
-| u011 | undefined 火焰弓箭手 | BurningArcher | 精灵 skeleton | ✅ 基本相符 | 保留，后续统一换 ToonKit 时顺带做 |
-| h07Y | undefined 小九头蛇 | Hydra | 精灵 hydra | ✅ 基本相符 | 保留，后续统一换 ToonKit 时顺带做 |
-| n004 | undefined 小鬼 | zergling | 精灵 imp | ❌ 严重不符 | ToonKit 程序化重做（按 WC3 轮廓/配色） |
-| h0AD | undefined 狗头人地卜师 | KoboldGeomancer | 精灵 gremlin | ⚠ 部分不符 | ToonKit 程序化重做（按 WC3 轮廓/配色） |
-| h0AG | undefined 发条机器人 | HeroTinkerRobot | 程序化 robot | ✅ 基本相符 | 保留，后续统一换 ToonKit 时顺带做 |
+| n001 | Fiend 恶魔仆从 | felhound | 精灵 hellHound | ✅ 基本相符 | **已重做**：ToonKit 程序化卡通模型（quad） |
+| n002 | Fanatic 狂热者 | FelstalkerPurple | 精灵 hellHound | ✅ 基本相符 | **已重做**：ToonKit 程序化卡通模型（quad） |
+| n003 | Infernal 地狱火 | Infernal | 精灵 stoneGolem | ⚠ 部分不符 | **已重做**：ToonKit 程序化卡通模型（humanoid） |
+| u005 | Diabolic 恶魔 | Kelthuzad | 精灵 lich | ✅ 基本相符 | **已重做**：ToonKit 程序化卡通模型（humanoid） |
+| n00Q | Wolf 狼 | TimberWolf | 精灵 cerberus | ⚠ 部分不符 | **已重做**：ToonKit 程序化卡通模型（quad） |
+| n00R | Blood Wolf 血狼 | Spiritwolf | 精灵 cerberus | ⚠ 部分不符 | **已重做**：ToonKit 程序化卡通模型（quad） |
+| u011 | Fire Archer 火焰弓箭手 | BurningArcher | 精灵 skeleton | ✅ 基本相符 | **已重做**：ToonKit 程序化卡通模型（humanoid） |
+| h07Y | Mini Hydra 小九头蛇 | Hydra | 精灵 hydra | ✅ 基本相符 | 保留：旧资源已与 WC3 模型相符（精灵 hydra） |
+| n004 | Imp 小鬼 | zergling | 精灵 imp | ❌ 严重不符 | **已重做**：ToonKit 程序化卡通模型（quad） |
+| h0AD | Geomancer 狗头人地卜师 | KoboldGeomancer | 精灵 gremlin | ⚠ 部分不符 | **已重做**：ToonKit 程序化卡通模型（humanoid） |
+| h0AG | Clockwreck 发条机器人 | HeroTinkerRobot | 程序化 robot | ✅ 基本相符 | 保留：旧资源已与 WC3 模型相符（程序化 robot） |
+
+## 雇佣兵 Mercenaries（派兵）
+
+| id | 兵种 | WC3 模型 | 旧资源 | 旧资源符合度 | 处理 |
+|---|---|---|---|---|---|
+| h04O | Militia 民兵 | Militia | 精灵 halberdier | ✅ 基本相符 | **已重做**：ToonKit 程序化卡通模型（humanoid） |
+| h04P | Bowman 弓手 | HighElfArcher | 精灵 archer | ✅ 基本相符 | **已重做**：ToonKit 程序化卡通模型（humanoid） |
+| h04R | Ghoul 食尸鬼 | Ghoul | 精灵 walkingDead | ✅ 基本相符 | **已重做**：ToonKit 程序化卡通模型（humanoid） |
+| h04S | Warrior 兽人勇士 | Grunt | 精灵 orc | ✅ 基本相符 | **已重做**：ToonKit 程序化卡通模型（humanoid） |
+| h04Q | Whelp 幼龙 | GreenDragonWelp | 精灵 greenDragon | ⚠ 部分不符 | **已重做**：ToonKit 程序化卡通模型（flyer） |
+| h04T | Hermit 隐士 | WitchDoctor | 精灵 goblin | ⚠ 部分不符 | **已重做**：ToonKit 程序化卡通模型（humanoid） |
+| h04U | Dino 恐龙 | ThunderLizard | 精灵 basilisk | ⚠ 部分不符 | **已重做**：ToonKit 程序化卡通模型（quad） |
+| h04V | Commander 指挥官 | KotoBeast | 精灵 minotaur | ⚠ 部分不符 | **已重做**：ToonKit 程序化卡通模型（quad） |
+| h04W | Furbolg 熊怪 | Furbolg | 精灵 behemoth | ⚠ 部分不符 | **已重做**：ToonKit 程序化卡通模型（humanoid） |
+| h04X | Wyvern 双足飞龙 | WyvernRider | 精灵 wyvern | ⚠ 部分不符 | **已重做**：ToonKit 程序化卡通模型（flyer） |
+| h04Y | Chariot 投石车 | MeatWagon | 程序化 wagon | ✅ 基本相符 | 保留：旧资源已与 WC3 模型相符（程序化 wagon） |
+| h04Z | Blood Orc 血兽人 | ChaosGrunt | 精灵 orc | ✅ 基本相符 | **已重做**：ToonKit 程序化卡通模型（humanoid） |
+| h050 | Frost Wolf 霜狼 | WhiteWolf | 精灵 cerberus | ⚠ 部分不符 | **已重做**：ToonKit 程序化卡通模型（quad） |
+| h051 | Ice Troll 冰巨魔 | IceTroll | 精灵 troglodyte | ⚠ 部分不符 | **已重做**：ToonKit 程序化卡通模型（humanoid） |
+| h052 | Warlock 术士 | ChaosWarlockGreen | 精灵 goblin | ⚠ 部分不符 | **已重做**：ToonKit 程序化卡通模型（humanoid） |
+| h053 | Pandaren 熊猫人 | FurbolgPanda | 精灵 behemoth | ⚠ 部分不符 | **已重做**：ToonKit 程序化卡通模型（humanoid） |
+| h055 | Ballista 弩车 | Ballista | 程序化 ballista | ✅ 基本相符 | 保留：旧资源已与 WC3 模型相符（程序化 ballista） |
+| h056 | Shaman 萨满 | Shaman | 精灵 orc | ✅ 基本相符 | **已重做**：ToonKit 程序化卡通模型（humanoid） |
+| h057 | Pudge 帕吉 | Abomination | 精灵 gog | ⚠ 部分不符 | **已重做**：ToonKit 程序化卡通模型（humanoid） |
+| h05M | Gargoyle 石像鬼 | Gargoyle | 精灵 stoneGargoyle | ⚠ 部分不符 | **已重做**：ToonKit 程序化卡通模型（flyer） |
+| h059 | Behemoth 巨兽 | SeaGiant | 精灵 giant | ⚠ 部分不符 | **已重做**：ToonKit 程序化卡通模型（humanoid） |
+| h05B | Kraken 海妖 | ForgottenOne | 精灵 hydra | ⚠ 部分不符 | **已重做**：ToonKit 程序化卡通模型（orb） |
+| h05A | Infernal 地狱火 | Infernal | 精灵 stoneGolem | ⚠ 部分不符 | **已重做**：ToonKit 程序化卡通模型（humanoid） |
+| h0BR | Demon 恶魔大哥 | HeroDemonHunter | 精灵 devil | ⚠ 部分不符 | **已重做**：ToonKit 程序化卡通模型（humanoid） |
 
 ## 波次怪 Wave creeps
 
 | id | 兵种 | WC3 模型 | 旧资源 | 旧资源符合度 | 处理 |
 |---|---|---|---|---|---|
-| h002 | Crab 螃蟹 | SpiderCrabCreep | 程序化 crab | ✅ 基本相符 | 保留，后续统一换 ToonKit 时顺带做 |
-| h000 | Murloc 鱼人 | MurlocFlesheater_V1 | 精灵 lizardman | ⚠ 部分不符 | ToonKit 程序化重做（按 WC3 轮廓/配色） |
-| h005 | Scorpion 蝎子 | Archnathid | 精灵 manticore | ⚠ 部分不符 | ToonKit 程序化重做（按 WC3 轮廓/配色） |
-| h001 | Quilbeast 箭猪 | QuillBeast | 精灵 behemoth | ⚠ 部分不符 | ToonKit 程序化重做（按 WC3 轮廓/配色） |
-| h00I | Hawk 鹰 | WarEagle | 精灵 griffin | ⚠ 部分不符 | ToonKit 程序化重做（按 WC3 轮廓/配色） |
-| h003 | Rock Golem 岩石傀儡 | RockGolem | 精灵 stoneGolem | ✅ 基本相符 | 保留，后续统一换 ToonKit 时顺带做 |
-| h004 | Satyr 萨特 | satyrhellcaller | 精灵 gnoll | ❌ 严重不符 | ToonKit 程序化重做（按 WC3 轮廓/配色） |
-| h007 | Acolyte 侍僧 | Acolyte | 精灵 monk | ✅ 基本相符 | 保留，后续统一换 ToonKit 时顺带做 |
-| h008 | Zombie 僵尸 | Zombie | 精灵 walkingDead | ✅ 基本相符 | 保留，后续统一换 ToonKit 时顺带做 |
-| H05I | Draenei Chieftain 德莱尼酋长 | DranaiAkama | 精灵 giant | ⚠ 部分不符 | ToonKit 程序化重做（按 WC3 轮廓/配色） |
-| h00A | Clockwerk Goblin 发条地精 | HeroTinkerRobot | 程序化 robot | ✅ 基本相符 | 保留，后续统一换 ToonKit 时顺带做 |
-| h00B | Siren 海妖 | NagaSiren | 精灵 naga | ✅ 基本相符 | 保留，后续统一换 ToonKit 时顺带做 |
-| h00C | Couatl 羽蛇 | WindSerpent | 精灵 serpentFly | ✅ 基本相符 | 保留，后续统一换 ToonKit 时顺带做 |
-| h00D | Tuskar Warrior 海象战士 | tuskar | 精灵 orc | ⚠ 部分不符 | ToonKit 程序化重做（按 WC3 轮廓/配色） |
-| h00E | Centaur 半人马 | Centaur | 精灵 centaur | ✅ 基本相符 | 保留，后续统一换 ToonKit 时顺带做 |
-| h00F | Salamander 火蜥蜴 | ThunderLizardVizier | 精灵 basilisk | ⚠ 部分不符 | ToonKit 程序化重做（按 WC3 轮廓/配色） |
-| h00G | Flesh Golem 血肉傀儡 | FleshGolem | 精灵 stoneGolem | ⚠ 部分不符 | ToonKit 程序化重做（按 WC3 轮廓/配色） |
-| h00H | Sludge Flinger 淤泥投掷者 | SludgeMonster | 精灵 gog | ❌ 严重不符 | ToonKit 程序化重做（按 WC3 轮廓/配色） |
-| h00J | Giant Spider 巨型蜘蛛 | Spider | 程序化 spider | ✅ 基本相符 | 保留，后续统一换 ToonKit 时顺带做 |
-| H05J | Dragon Turtle 龙龟 | DragonSeaTurtle | 精灵 basilisk | ⚠ 部分不符 | ToonKit 程序化重做（按 WC3 轮廓/配色） |
-| h03P | Hippogryph 角鹰兽 | Hippogryph | 精灵 griffin | ✅ 基本相符 | 保留，后续统一换 ToonKit 时顺带做 |
-| h03Q | Mammoth 猛犸 | Mammoth | 精灵 behemoth | ⚠ 部分不符 | ToonKit 程序化重做（按 WC3 轮廓/配色） |
-| h03R | Wildkin 枭兽 | Owlbear | 精灵 minotaur | ❌ 严重不符 | ToonKit 程序化重做（按 WC3 轮廓/配色） |
-| h03T | Revenant 亡魂 | Revenant | 精灵 wight | ⚠ 部分不符 | ToonKit 程序化重做（按 WC3 轮廓/配色） |
-| h03U | Succubus 魅魔 | Demoness | 精灵 medusa | ⚠ 部分不符 | ToonKit 程序化重做（按 WC3 轮廓/配色） |
-| h03S | Myrmidon 娜迦战士 | NagaMyrmidon | 精灵 naga | ✅ 基本相符 | 保留，后续统一换 ToonKit 时顺带做 |
-| h03V | Doom Guard 末日守卫 | DoomGuard | 精灵 pitFiend | ✅ 基本相符 | 保留，后续统一换 ToonKit 时顺带做 |
-| h03W | Juggernaut 主宰 | InfernalCannonCannon | 精灵 stoneGolem | ❌ 严重不符 | ToonKit 程序化重做（按 WC3 轮廓/配色） |
-| h006 | Frost Wyrm 冰霜巨龙 | FrostWyrm | 精灵 boneDragon | ✅ 基本相符 | 保留，后续统一换 ToonKit 时顺带做 |
-| H05K | Magnataur 猛犸人 | Magnataur | 精灵 behemoth | ⚠ 部分不符 | ToonKit 程序化重做（按 WC3 轮廓/配色） |
-| h05L | Legion Lord 军团领主 | Mannoroth | 精灵 devil | ✅ 基本相符 | 保留，后续统一换 ToonKit 时顺带做 |
+| h002 | Crab 螃蟹 | SpiderCrabCreep | 程序化 crab | ✅ 基本相符 | 保留：旧资源已与 WC3 模型相符（程序化 crab） |
+| h000 | Murloc 鱼人 | MurlocFlesheater_V1 | 精灵 lizardman | ⚠ 部分不符 | **已重做**：ToonKit 程序化卡通模型（humanoid） |
+| h005 | Scorpion 蝎子 | Archnathid | 精灵 manticore | ⚠ 部分不符 | **已重做**：ToonKit 程序化卡通模型（quad） |
+| h001 | Quilbeast 箭猪 | QuillBeast | 精灵 behemoth | ⚠ 部分不符 | **已重做**：ToonKit 程序化卡通模型（quad） |
+| h00I | Hawk 鹰 | WarEagle | 精灵 griffin | ⚠ 部分不符 | **已重做**：ToonKit 程序化卡通模型（flyer） |
+| h003 | Rock Golem 岩石傀儡 | RockGolem | 精灵 stoneGolem | ✅ 基本相符 | **已重做**：ToonKit 程序化卡通模型（humanoid） |
+| h004 | Satyr 萨特 | satyrhellcaller | 精灵 gnoll | ❌ 严重不符 | **已重做**：ToonKit 程序化卡通模型（humanoid） |
+| h007 | Acolyte 侍僧 | Acolyte | 精灵 monk | ✅ 基本相符 | **已重做**：ToonKit 程序化卡通模型（humanoid） |
+| h008 | Zombie 僵尸 | Zombie | 精灵 walkingDead | ✅ 基本相符 | **已重做**：ToonKit 程序化卡通模型（humanoid） |
+| H05I | Draenei Chieftain 德莱尼酋长 | DranaiAkama | 精灵 giant | ⚠ 部分不符 | **已重做**：ToonKit 程序化卡通模型（humanoid） |
+| h00A | Clockwerk Goblin 发条地精 | HeroTinkerRobot | 程序化 robot | ✅ 基本相符 | 保留：旧资源已与 WC3 模型相符（程序化 robot） |
+| h00B | Siren 海妖 | NagaSiren | 精灵 naga | ✅ 基本相符 | **已重做**：ToonKit 程序化卡通模型（humanoid） |
+| h00C | Couatl 羽蛇 | WindSerpent | 精灵 serpentFly | ✅ 基本相符 | **已重做**：ToonKit 程序化卡通模型（flyer） |
+| h00D | Tuskar Warrior 海象战士 | tuskar | 精灵 orc | ⚠ 部分不符 | **已重做**：ToonKit 程序化卡通模型（humanoid） |
+| h00E | Centaur 半人马 | Centaur | 精灵 centaur | ✅ 基本相符 | **已重做**：ToonKit 程序化卡通模型（quad） |
+| h00F | Salamander 火蜥蜴 | ThunderLizardVizier | 精灵 basilisk | ⚠ 部分不符 | **已重做**：ToonKit 程序化卡通模型（quad） |
+| h00G | Flesh Golem 血肉傀儡 | FleshGolem | 精灵 stoneGolem | ⚠ 部分不符 | **已重做**：ToonKit 程序化卡通模型（humanoid） |
+| h00H | Sludge Flinger 淤泥投掷者 | SludgeMonster | 精灵 gog | ❌ 严重不符 | **已重做**：ToonKit 程序化卡通模型（humanoid） |
+| h00J | Giant Spider 巨型蜘蛛 | Spider | 程序化 spider | ✅ 基本相符 | 保留：旧资源已与 WC3 模型相符（程序化 spider） |
+| H05J | Dragon Turtle 龙龟 | DragonSeaTurtle | 精灵 basilisk | ⚠ 部分不符 | **已重做**：ToonKit 程序化卡通模型（quad） |
+| h03P | Hippogryph 角鹰兽 | Hippogryph | 精灵 griffin | ✅ 基本相符 | **已重做**：ToonKit 程序化卡通模型（flyer） |
+| h03Q | Mammoth 猛犸 | Mammoth | 精灵 behemoth | ⚠ 部分不符 | **已重做**：ToonKit 程序化卡通模型（quad） |
+| h03R | Wildkin 枭兽 | Owlbear | 精灵 minotaur | ❌ 严重不符 | **已重做**：ToonKit 程序化卡通模型（humanoid） |
+| h03T | Revenant 亡魂 | Revenant | 精灵 wight | ⚠ 部分不符 | **已重做**：ToonKit 程序化卡通模型（humanoid） |
+| h03U | Succubus 魅魔 | Demoness | 精灵 medusa | ⚠ 部分不符 | **已重做**：ToonKit 程序化卡通模型（humanoid） |
+| h03S | Myrmidon 娜迦战士 | NagaMyrmidon | 精灵 naga | ✅ 基本相符 | **已重做**：ToonKit 程序化卡通模型（humanoid） |
+| h03V | Doom Guard 末日守卫 | DoomGuard | 精灵 pitFiend | ✅ 基本相符 | **已重做**：ToonKit 程序化卡通模型（humanoid） |
+| h03W | Juggernaut 主宰 | InfernalCannonCannon | 精灵 stoneGolem | ❌ 严重不符 | **已重做**：ToonKit 程序化卡通模型（tank） |
+| h006 | Frost Wyrm 冰霜巨龙 | FrostWyrm | 精灵 boneDragon | ✅ 基本相符 | **已重做**：ToonKit 程序化卡通模型（flyer） |
+| H05K | Magnataur 猛犸人 | Magnataur | 精灵 behemoth | ⚠ 部分不符 | **已重做**：ToonKit 程序化卡通模型（quad） |
+| h05L | Legion Lord 军团领主 | Mannoroth | 精灵 devil | ✅ 基本相符 | **已重做**：ToonKit 程序化卡通模型（humanoid） |
